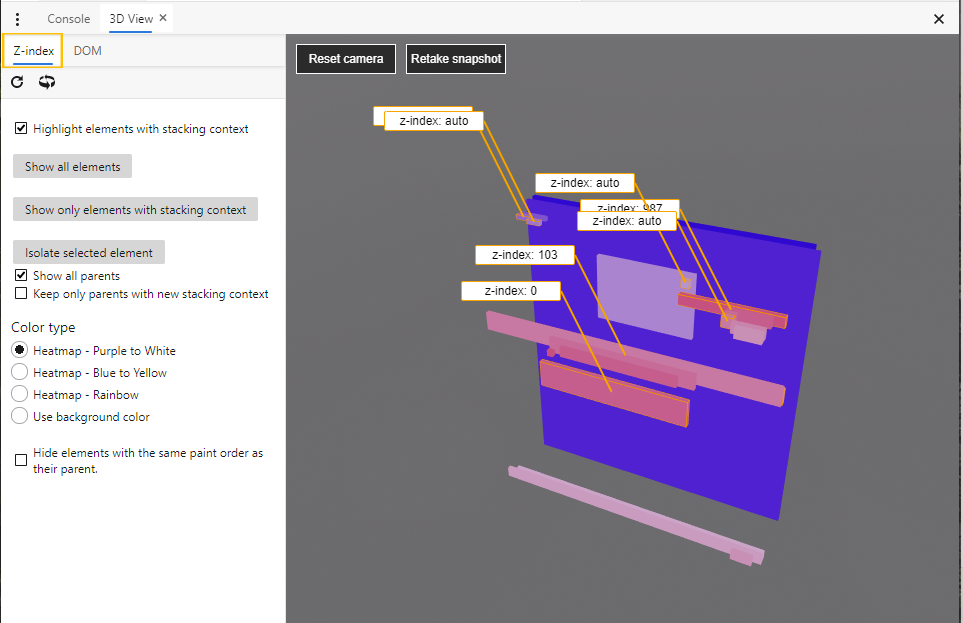
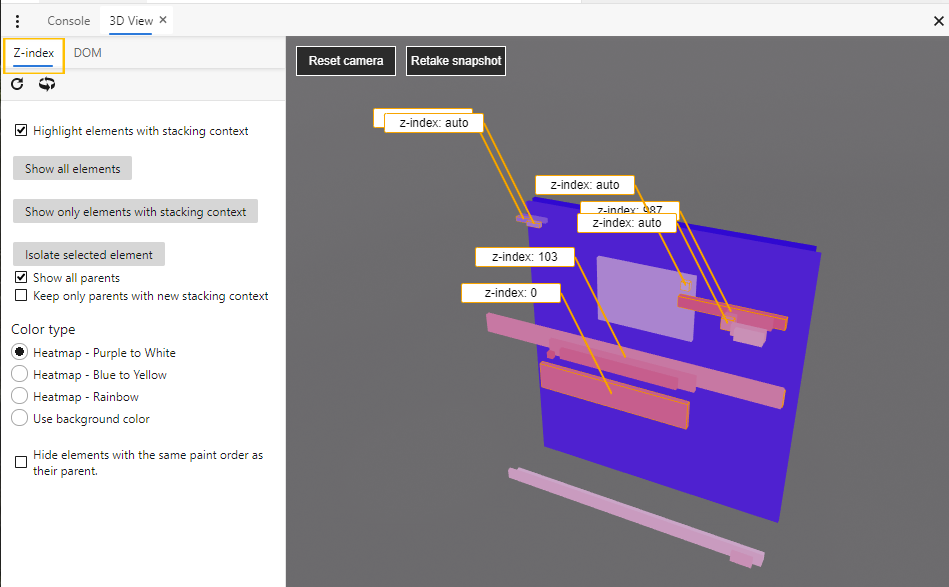
Fixed sizing and crop

Changed region(s): [[0.0, 0.0, 1.0, 1.0], [0.0, 0.0, 0.1834, 0.1533]]

diff --git a/microsoft-edge/devtools-guide-chromium/3D-view.md b/microsoft-edge/devtools-guide-chromium/3D-view.md
@@ -36,7 +36,7 @@ There are two panes that you can use for your debugging experience.
 - Pan around the DOM: right click and drag in the direction you want the DOM to move.
 - Zoom: drag two fingers across the touchpad or use the scroll wheel on your mouse.
 
-![on-screen controls](./media/on-screen-controls.png)
+![on-screen controls](./media/controls-small.png)
 ### On-screen controls
 - Reset the canvas view to the original view: click the button labeled "Reset camera," or click on the icon that looks like a sideways refresh button and has "Reset elements in view and re-center camera"
 - Refresh the canvas (e.g. if the browser changed or you switched to a device emulator view): click on the button that says "Retake snapshot," or click on the button that looks like a refresh icon and has "Take new snapshot" as the hover text.
